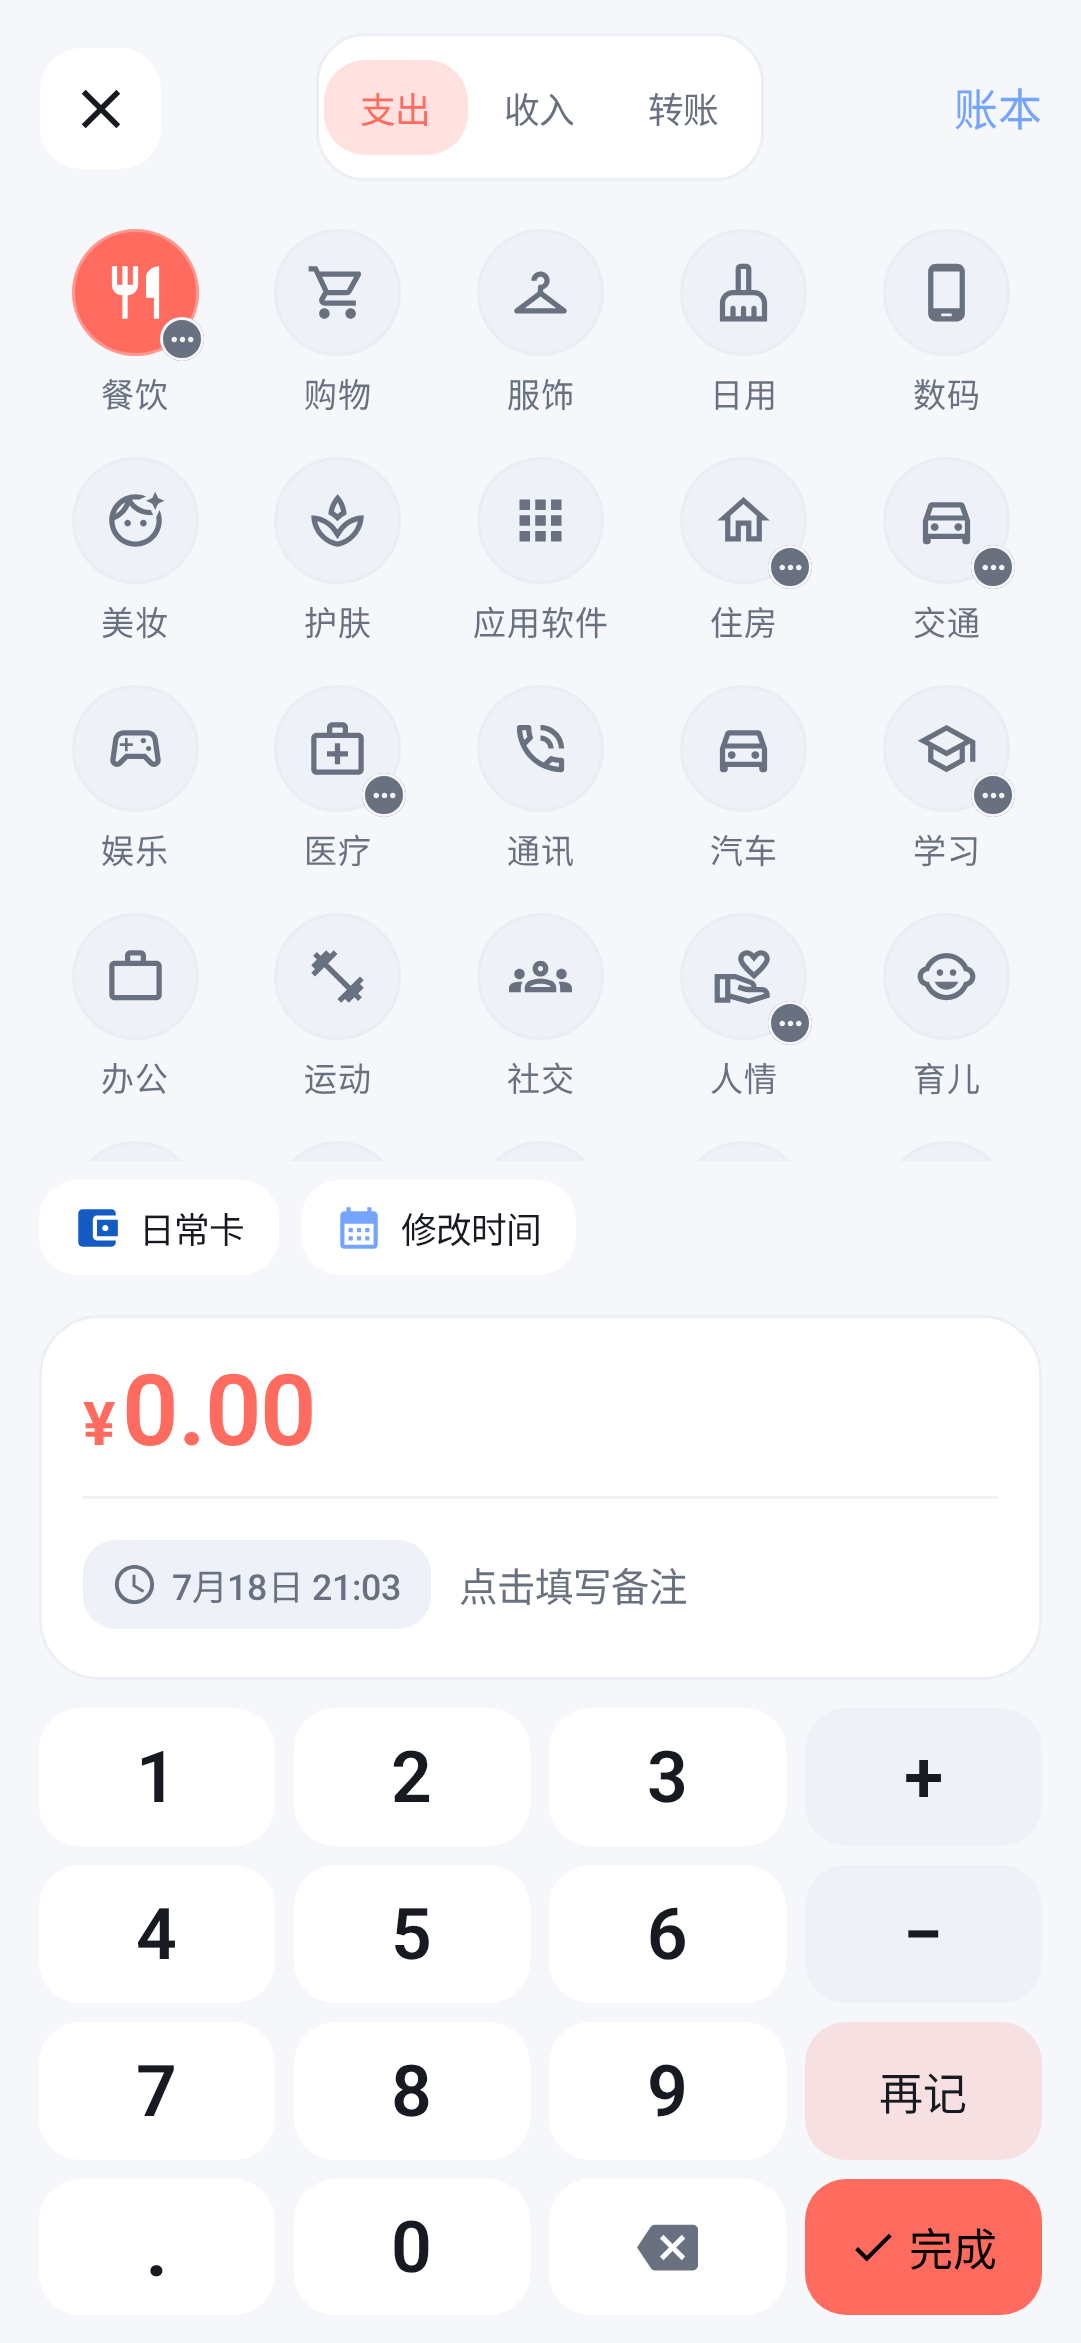
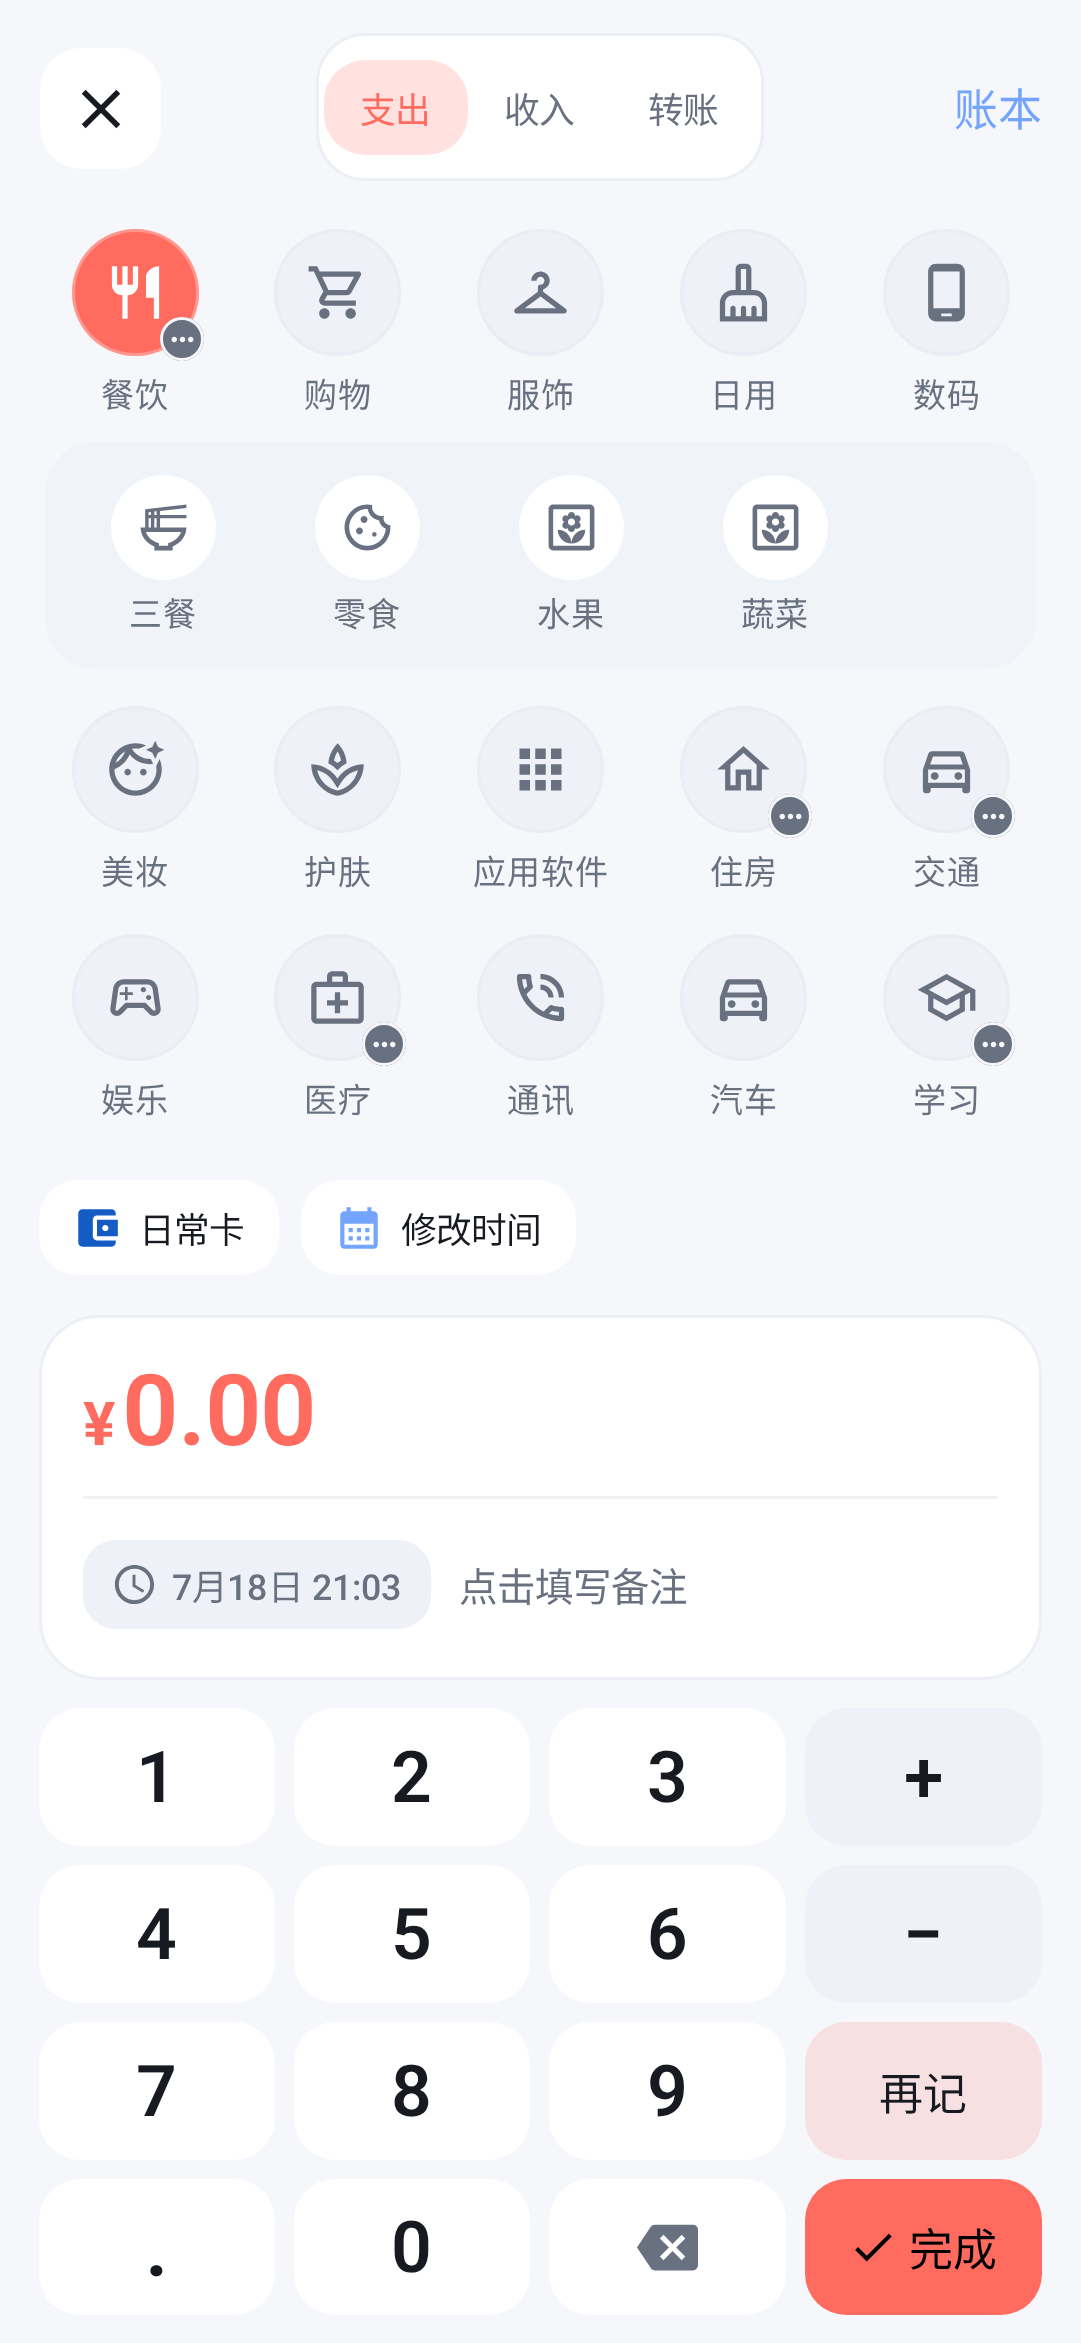
fix(quick-add): expand default category details

diff --git a/app/src/main/java/com/oneledger/app/ui/components/QuickAddSheet.kt b/app/src/main/java/com/oneledger/app/ui/components/QuickAddSheet.kt
@@ -272,9 +272,16 @@ private fun QuickAddContent(
     val noteFocusRequester = remember(editKey) { FocusRequester() }
     val hostView = LocalView.current
     val initialType = initialTypeOverride ?: initialTransaction?.type ?: TransactionType.EXPENSE
+    val initialCategories = when (initialType) {
+        TransactionType.EXPENSE -> expenseCategories
+        TransactionType.INCOME -> incomeCategories
+        else -> emptyList()
+    }
+    val initialCategoryState = defaultQuickAddCategoryState(initialCategories)
     var type by rememberSaveable(editKey) {
         mutableStateOf(initialType)
     }
+    var categoryStateType by remember(editKey) { mutableStateOf(initialType) }
     var calculatorState by rememberSaveable(
         editKey,
         stateSaver = AmountCalculatorState.Saver,
@@ -303,11 +310,7 @@ private fun QuickAddContent(
     }
     var selectedCategoryId by rememberSaveable(editKey) {
         mutableStateOf(
-            initialTransaction?.categoryId ?: when (initialType) {
-                TransactionType.EXPENSE -> firstQuickAddRootCategoryId(expenseCategories)
-                TransactionType.INCOME -> firstQuickAddRootCategoryId(incomeCategories)
-                else -> null
-            },
+            initialTransaction?.categoryId ?: initialCategoryState.selectedCategoryId,
         )
     }
     var selectedAccountId by rememberSaveable(editKey) {
@@ -320,7 +323,15 @@ private fun QuickAddContent(
         )
     }
     var selectedToAccountId by rememberSaveable(editKey) { mutableStateOf(initialTransaction?.toAccountId) }
-    var expandedCategoryId by rememberSaveable(editKey) { mutableStateOf(initialExpandedCategoryId) }
+    var expandedCategoryId by rememberSaveable(editKey) {
+        mutableStateOf(
+            initialExpandedCategoryId ?: if (isEditing) {
+                null
+            } else {
+                initialCategoryState.expandedCategoryId
+            },
+        )
+    }
     var accountPickerTarget by rememberSaveable(editKey) { mutableStateOf<TransferAccountTarget?>(null) }
     var occurredAt by rememberSaveable(editKey) { mutableLongStateOf(initialTransaction?.occurredAt ?: nowMillis) }
     var showDateTimePicker by rememberSaveable(editKey) { mutableStateOf(false) }
@@ -429,14 +440,19 @@ private fun QuickAddContent(
     }
 
     LaunchedEffect(type, categories) {
-        if (type != TransactionType.TRANSFER && categories.none { it.id == selectedCategoryId }) {
-            selectedCategoryId = firstQuickAddRootCategoryId(categories)
+        val typeChanged = categoryStateType != type
+        categoryStateType = type
+        when {
+            type == TransactionType.TRANSFER -> expandedCategoryId = null
+            categories.isNotEmpty() &&
+                (typeChanged || categories.none { it.id == selectedCategoryId }) -> {
+                val defaultState = defaultQuickAddCategoryState(categories)
+                selectedCategoryId = defaultState.selectedCategoryId
+                expandedCategoryId = defaultState.expandedCategoryId
+            }
         }
     }
     LaunchedEffect(type) {
-        if (initialExpandedCategoryId == null || type != initialType) {
-            expandedCategoryId = null
-        }
         accountPickerTarget = null
         if (type == TransactionType.TRANSFER && !isEditing) {
             selectedAccountId = null
@@ -484,9 +500,10 @@ private fun QuickAddContent(
             calculatorState = AmountCalculatorState()
             note = ""
             occurredAt = nowMillis
-            if (type == TransactionType.EXPENSE) {
-                selectedCategoryId = firstQuickAddRootCategoryId(expenseCategories)
-                expandedCategoryId = null
+            if (type != TransactionType.TRANSFER) {
+                val defaultState = defaultQuickAddCategoryState(categories)
+                selectedCategoryId = defaultState.selectedCategoryId
+                expandedCategoryId = defaultState.expandedCategoryId
             }
         }
     }

diff --git a/app/src/main/java/com/oneledger/app/ui/components/QuickAddPresentation.kt b/app/src/main/java/com/oneledger/app/ui/components/QuickAddPresentation.kt
@@ -63,6 +63,11 @@ internal data class QuickAddCategoryTree(
     fun childrenOf(categoryId: String): List<CategoryEntity> = childrenByParent[categoryId].orEmpty()
 }
 
+internal data class QuickAddDefaultCategoryState(
+    val selectedCategoryId: String?,
+    val expandedCategoryId: String?,
+)
+
 /**
  * Builds a presentation-only hierarchy. Orphaned children remain visible as roots so a damaged or
  * partially imported category list never makes an otherwise selectable category disappear.
@@ -81,8 +86,16 @@ internal fun quickAddCategoryTree(categories: List<CategoryEntity>): QuickAddCat
     return QuickAddCategoryTree(roots = roots, childrenByParent = children)
 }
 
-internal fun firstQuickAddRootCategoryId(categories: List<CategoryEntity>): String? =
-    quickAddCategoryTree(categories).roots.firstOrNull()?.id
+internal fun defaultQuickAddCategoryState(
+    categories: List<CategoryEntity>,
+): QuickAddDefaultCategoryState {
+    val tree = quickAddCategoryTree(categories)
+    val firstRoot = tree.roots.firstOrNull()
+    return QuickAddDefaultCategoryState(
+        selectedCategoryId = firstRoot?.id,
+        expandedCategoryId = firstRoot?.id?.takeIf { tree.childrenOf(it).isNotEmpty() },
+    )
+}
 
 private val quickAddCategoryComparator =
     compareBy<CategoryEntity> { if (it.name.trim() == "其他") 1 else 0 }

diff --git a/app/src/test/java/com/oneledger/app/ui/components/QuickAddPresentationTest.kt b/app/src/test/java/com/oneledger/app/ui/components/QuickAddPresentationTest.kt
@@ -52,14 +52,33 @@ class QuickAddPresentationTest {
     }
 
     @Test
-    fun firstRootCategoryIgnoresChildrenThatSortBeforeTheirParent() {
+    fun defaultCategorySelectsFirstRootAndExpandsItWhenItHasChildren() {
         val categories = listOf(
             category(id = "child", name = "三餐", parentId = "food", order = 0),
             category(id = "shopping", name = "购物", order = 1),
             category(id = "food", name = "餐饮", order = 0),
         )
 
-        assertEquals("food", firstQuickAddRootCategoryId(categories))
+        assertEquals(
+            QuickAddDefaultCategoryState(
+                selectedCategoryId = "food",
+                expandedCategoryId = "food",
+            ),
+            defaultQuickAddCategoryState(categories),
+        )
+    }
+
+    @Test
+    fun defaultCategoryStaysCollapsedWhenFirstRootHasNoChildren() {
+        assertEquals(
+            QuickAddDefaultCategoryState(
+                selectedCategoryId = "shopping",
+                expandedCategoryId = null,
+            ),
+            defaultQuickAddCategoryState(
+                listOf(category(id = "shopping", name = "购物")),
+            ),
+        )
     }
 
     @Test

diff --git a/docs/requirements/QUICK_ADD_CATEGORY_TRANSFER_UI.md b/docs/requirements/QUICK_ADD_CATEGORY_TRANSFER_UI.md
@@ -37,7 +37,7 @@ Quick Add 的支出/收入分类缺少统一的线性图标和二级分类展示
 ## 页面状态
 
 - 默认：支出主分类，无二级分类展开。
-- 新建账单：支出模式预选展示顺序中的第一个主分类，不预选其二级分类；“再记”开始下一笔支出时恢复同一默认状态。
+- 新建账单：支出和收入模式预选展示顺序中的第一个主分类；若该主分类有二级分类则同步展开。“再记”开始下一笔时恢复同一默认状态。
 - 选中：支出红、收入绿、转账黄；图标与主操作保持同一语义。
 - 排序：支出和收入的“其他”始终位于各自主分类列表末尾，不受旧数据排序影响。
 - 展开：点击带省略标记的主分类，在其所在行下方展开二级面板。
@@ -74,4 +74,4 @@ Quick Add 的支出/收入分类缺少统一的线性图标和二级分类展示
 10. 构建、单元测试、Lint、截图测试和 Android 测试源码编译通过。
 11. 全新安装和已有账本均展示完整支出/收入目录；已存在分类的名称、图标和排序不被覆盖。
 12. 支出与收入主分类中的“其他”均固定显示在最后。
-13. 新建支出账单及“再记”的下一笔支出默认选中第一个主分类；二级面板的展开和收起动画完全对称。
+13. 新建账单及“再记”的下一笔默认选中当前模式的第一个主分类；若其有二级分类则同步展开。二级面板的展开和收起动画完全对称。
